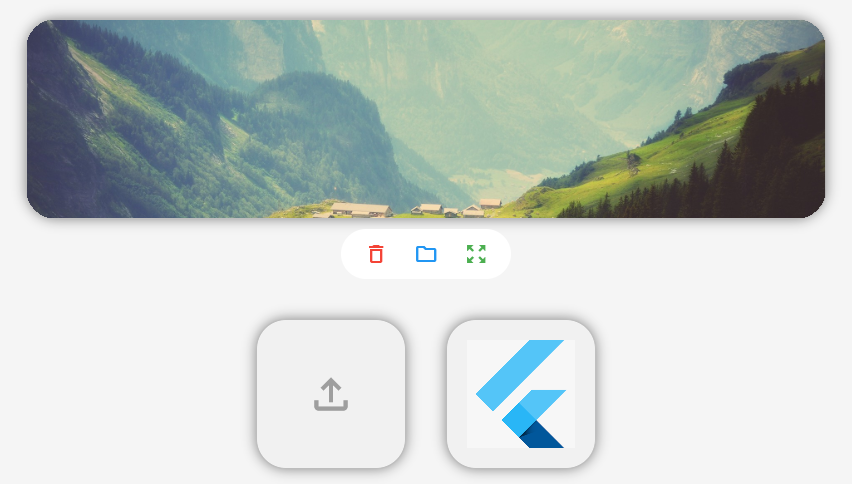
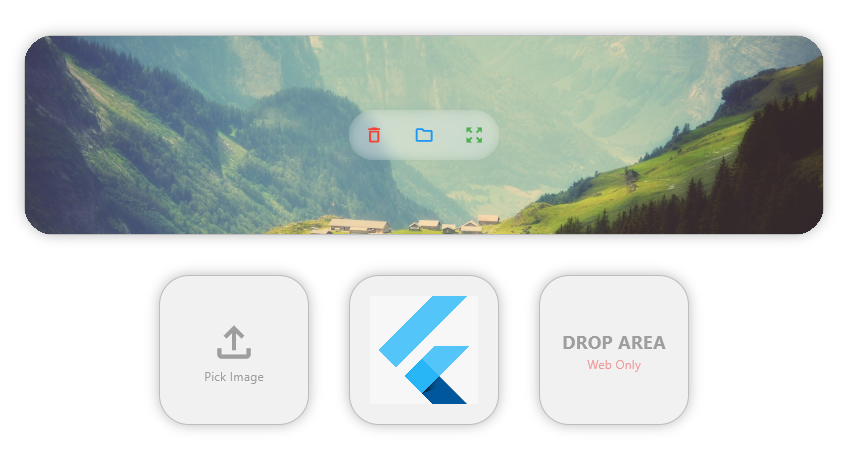
version 4.1.2

diff --git a/example/lib/main.dart b/example/lib/main.dart
@@ -1,3 +1,5 @@
+import 'dart:ui';
+
 import 'package:flutter/material.dart';
 import 'package:n_image_picker/n_image_picker.dart';
 
@@ -34,6 +36,7 @@ class _MyAppState extends State<MyApp> {
   }
 
   static const String _urlImage = 'https://w.wallhaven.cc/full/49/wallhaven-49d5y8.jpg';
+  // static const String _urlImage = 'https://mir-s3-cdn-cf.behance.net/project_modules/hd/5eeea355389655.59822ff824b72.gif';
   // static const String _urlImage = 'https://i.imgur.com/f1fRugF.jpeg';
   static const String _assetImage = 'assets/flutter_logo.png';
 
@@ -48,7 +51,7 @@ class _MyAppState extends State<MyApp> {
       style: BorderStyle.solid
     ),
     boxShadow: [BoxShadow(
-      color: Colors.black45,
+      color: Colors.black26,
       blurRadius: 10
     )]
   );
@@ -57,11 +60,10 @@ class _MyAppState extends State<MyApp> {
   Widget build(BuildContext context) {
     return MaterialApp(
       debugShowCheckedModeBanner: false,
-      color : Color(0xFFe3e3e3),
       title : 'Pin Board Example',
       home  :
       Scaffold(
-        backgroundColor: Color(0xFFf5f5f5),
+        backgroundColor: Colors.white,
         body:
         SafeArea(
           child:
@@ -74,22 +76,14 @@ class _MyAppState extends State<MyApp> {
                 spacing       : 40,
                 children      : [
 
-                    Column(
-                      mainAxisSize  : MainAxisSize.min,
-                      spacing       : 10,
-                      children      : [
-                        ImageArea(
-                          controller      : imageControllers[0],
-                          onLoadingImage  : _urlImage,
-                          width           : 800,
-                          height          : 200,
-                          decoration      : _decoration,
-                          onLoadingChild  : Center(child: Text("loading...", style: TextStyle(color: Colors.green)))
-                        ),
-                        _Controlls(
-                          controller: imageControllers[0]
-                        )
-                      ],
+                    ImageArea(
+                      controller      : imageControllers[0],
+                      onLoadingImage  : _urlImage,
+                      width           : 800,
+                      height          : 200,
+                      decoration      : _decoration,
+                      onFullChild     : _Controlls(controller: imageControllers[0]),
+                      onLoadingChild  : Center(child: Text("loading...", style: TextStyle(color: Colors.green)))
                     ),
 
                     Row(
@@ -100,16 +94,23 @@ class _MyAppState extends State<MyApp> {
                           controller  : imageControllers[1],
                           dimension   : 150,
                           decoration  : _decoration,
-                          emptyChild  :
+                          onEmptyChild  :
                           Center(
                             child:
                             InkWell(
                               onTap: () => imageControllers[1].pickImage(),
                               child:
-                              Icon(
-                                Icons.file_upload_outlined,
-                                size  : 50,
-                                color : Colors.grey,
+                              Column(
+                                mainAxisAlignment: MainAxisAlignment.center,
+                                mainAxisSize: MainAxisSize.min,
+                                children: [
+                                  Icon(
+                                    Icons.file_upload_outlined,
+                                    size  : 50,
+                                    color : Colors.grey,
+                                  ),
+                                  Text("Pick Image",  style: TextStyle(color: Colors.grey, fontSize: 12)),
+                                ],
                               )
                             ),
                           ),
@@ -120,10 +121,28 @@ class _MyAppState extends State<MyApp> {
                           decoration    : _decoration,
                           onLoadingImage: _assetImage,
                         ),
+                        ImageArea.square(
+                          dimension     : 150,
+                          padding       : const EdgeInsets.all(20),
+                          decoration    : _decoration,
+                          onDragChild   :
+                          Column(
+                            mainAxisAlignment: MainAxisAlignment.center,
+                            mainAxisSize: MainAxisSize.min,
+                            children    : [
+                              Text("DROP AREA", style: TextStyle(color: Colors.grey.shade500, fontSize: 18, fontWeight: FontWeight.bold)),
+                              Text("Web Only",  style: TextStyle(color: Colors.red.shade200,  fontSize: 12)),
+                            ],
+                          ),
+                          onEmptyChild  :
+                          Icon(
+                            Icons.drag_handle,
+                            size  : 50,
+                            color : Colors.grey,
+                          ),
+                        ),
                       ],
                     ),
-
-
 
                 ],
               )
@@ -146,28 +165,41 @@ class _Controlls extends StatelessWidget {
   @override
   Widget build(BuildContext context) =>
   Container(
-    padding: const EdgeInsets.symmetric(horizontal: 15, vertical: 5),
+    padding: const EdgeInsets.all(5),
     decoration: BoxDecoration(
-      color: Colors.white,
-      borderRadius: BorderRadius.circular(25)
+      // color: Colors.white,
+      color: Color.fromRGBO(250, 250, 250, 0.4),
+      borderRadius: BorderRadius.circular(25),
+      // border        :
+      // Border.all(
+      //   width: 1,
+      //   color: Colors.grey.shade400,
+      //   style: BorderStyle.solid
+      // ),
     ),
-    child: Row(
-      mainAxisSize  : MainAxisSize.min,
-      spacing       : 10,
-      children      : [
-        IconButton(
-          onPressed : controller.hasNoImage ? null : () => controller.removeImage(),
-          icon      : Icon(Icons.delete_outline, color: controller.hasImage ? Colors.red : Colors.grey)
-        ),
-        IconButton(
-          onPressed : () => controller.pickImage(),
-          icon      : Icon(Icons.folder_outlined, color: controller.hasImage ? Colors.blue : Colors.grey)
-        ),
-        IconButton(
-          onPressed : controller.hasNoImage ? null : () => controller.preview(context),
-          icon      : Icon(Icons.zoom_out_map, color: controller.hasImage ? Colors.green : Colors.grey)
-        ),
-      ],
+    clipBehavior: Clip.hardEdge,
+    child:
+    BackdropFilter(
+      filter: ImageFilter.blur(sigmaX: 5.0, sigmaY: 5.0), // Adjust sigmaX and sigmaY for blur intensity
+      child :
+      Row(
+        mainAxisSize  : MainAxisSize.min,
+        spacing       : 10,
+        children      : [
+          IconButton(
+            onPressed : controller.hasNoImage ? null : () => controller.removeImage(),
+            icon      : Icon(Icons.delete_outline, size: 20, color: controller.hasImage ? Colors.red : Colors.grey)
+          ),
+          IconButton(
+            onPressed : () => controller.pickImage(),
+            icon      : Icon(Icons.folder_outlined, size: 20,  color: controller.hasImage ? Colors.blue : Colors.grey)
+          ),
+          IconButton(
+            onPressed : controller.hasNoImage ? null : () => controller.preview(context),
+            icon      : Icon(Icons.zoom_out_map, size: 20,  color: controller.hasImage ? Colors.green : Colors.grey)
+          ),
+        ],
+      ),
     ),
   );
 }

diff --git a/lib/src/presentation/image_zone.dart b/lib/src/presentation/image_zone.dart
@@ -358,6 +358,12 @@ class ImageArea extends StatefulWidget {
   final EdgeInsetsGeometry? padding;
 
   /// Optional URL or path to an image to load on initialization.
+  ///
+  /// If the image server has CORS security on the web and your code doesn't include
+  /// the headers accepted by the server, it will return an error. It's important to
+  /// note that CORS security includes a registry of accepted IPs in the backend,
+  /// if your project is not on the list, even if it has the correct headers, the
+  /// image will not be displayed.
   final String? onLoadingImage;
 
   /// Width of the container.
@@ -366,8 +372,11 @@ class ImageArea extends StatefulWidget {
   /// Height of the container.
   final double  height;
 
+  /// Widget displayed when image is loaded.
+  final Widget? onFullChild;
+
   /// Widget displayed when no image is loaded.
-  final Widget? emptyChild;
+  final Widget? onEmptyChild;
 
   /// Widget displayed when an error occurs.
   final Widget? onErrorChild;
@@ -396,7 +405,8 @@ class ImageArea extends StatefulWidget {
     this.decoration,
     this.margin,
     this.padding,
-    this.emptyChild,
+    this.onFullChild,
+    this.onEmptyChild,
     this.onErrorChild,
     this.onDragChild,
     this.onLoadingChild,
@@ -414,7 +424,8 @@ class ImageArea extends StatefulWidget {
     this.decoration,
     this.margin,
     this.padding,
-    this.emptyChild,
+    this.onFullChild,
+    this.onEmptyChild,
     this.onErrorChild,
     this.onDragChild,
     this.onLoadingChild,
@@ -433,7 +444,8 @@ class ImageArea extends StatefulWidget {
     this.decoration,
     this.margin,
     this.padding,
-    this.emptyChild,
+    this.onFullChild,
+    this.onEmptyChild,
     this.onErrorChild,
     this.onDragChild,
     this.onLoadingChild,
@@ -547,13 +559,21 @@ class _ImageZoneState extends State<ImageArea> {
             // Show error widget if error.
             if(widget.controller!.onError)        return widget.onErrorChild  ?? _Default(error: true);
             // Show empty widget if no image bytes.
-            if(widget.controller!.bytes == null)  return widget.emptyChild    ?? SizedBox.shrink();
+            if(widget.controller!.bytes == null)  return widget.onEmptyChild    ?? SizedBox.shrink();
 
             // Otherwise, display the image.
-            return Image.memory(
-              widget.controller!.bytes!,
-              fit           : widget.fit ?? BoxFit.cover,
-              isAntiAlias   : true,
+            return Stack(
+              children: [
+                SizedBox.expand(
+                  child:
+                  Image.memory(
+                    widget.controller!.bytes!,
+                    fit           : widget.fit ?? BoxFit.cover,
+                    isAntiAlias   : true,
+                  ),
+                ),
+                if(widget.onFullChild != null) SizedBox.expand(child: Center(child: widget.onFullChild))
+              ],
             );
           }
         }
@@ -568,14 +588,22 @@ class _ImageZoneState extends State<ImageArea> {
             // Show error widget if error.
             if(controller.onError)        return widget.onErrorChild  ?? _Default(error: true);
             // Show empty widget if no image bytes.
-            if(controller.bytes == null)  return widget.emptyChild    ?? SizedBox.shrink();
+            if(controller.bytes == null)  return widget.onEmptyChild    ?? SizedBox.shrink();
 
             // Otherwise, display the image.
-            return Image.memory(
-              controller.bytes!,
-              fit           : widget.fit ?? BoxFit.cover,
-              isAntiAlias   : true,
-              filterQuality : FilterQuality.high,
+            return Stack(
+              children: [
+                SizedBox.expand(
+                  child:
+                  Image.memory(
+                    controller.bytes!,
+                    fit           : widget.fit ?? BoxFit.cover,
+                    isAntiAlias   : true,
+                    filterQuality : FilterQuality.high,
+                  ),
+                ),
+                if(widget.onFullChild != null) SizedBox.expand(child: Center(child: widget.onFullChild))
+              ],
             );
           }
         }

diff --git a/README.md b/README.md
@@ -191,7 +191,7 @@ ImageArea(
     onLoadingImage: String | null
 
     /// Widget to display when no image is loaded.
-    emptyChild: Widget | null
+    onEmptyChild: Widget | null
 
     /// Widget to display when an error occurs.
     onErrorChild: Widget | null
@@ -204,6 +204,12 @@ ImageArea(
 
     /// How to fit the image within the container.
     fit: BoxFit | null
+
+    /// Updates the HTTP headers used for image requests.
+    headers: Map<String, String> | null
+
+    /// Updates the maximum allowed size for the image.
+    maxSize: int | null;
 );
 
 /// Creates a square [ImageArea] with equal width and height [dimension].

diff --git a/CHANGELOG.md b/CHANGELOG.md
@@ -1,3 +1,7 @@
+## 4.1.2
+* [new] onFullImage widget
+* [change] emptyChild to onEmptyChild
+
 ## 4.1.1
 * [Fix] hasImage has been fixed
 * [New] headers and maxsize can be setted inside ImageArea
